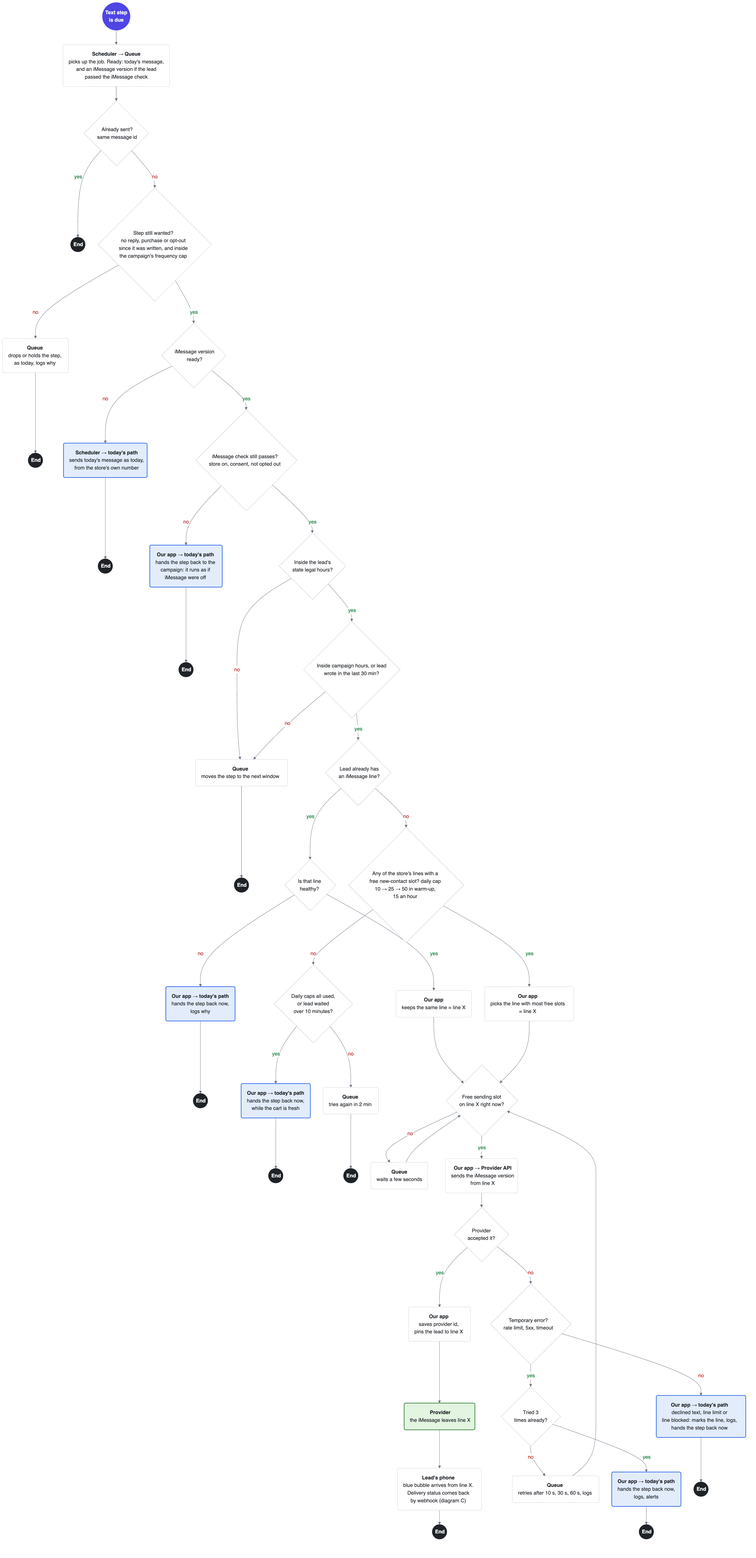
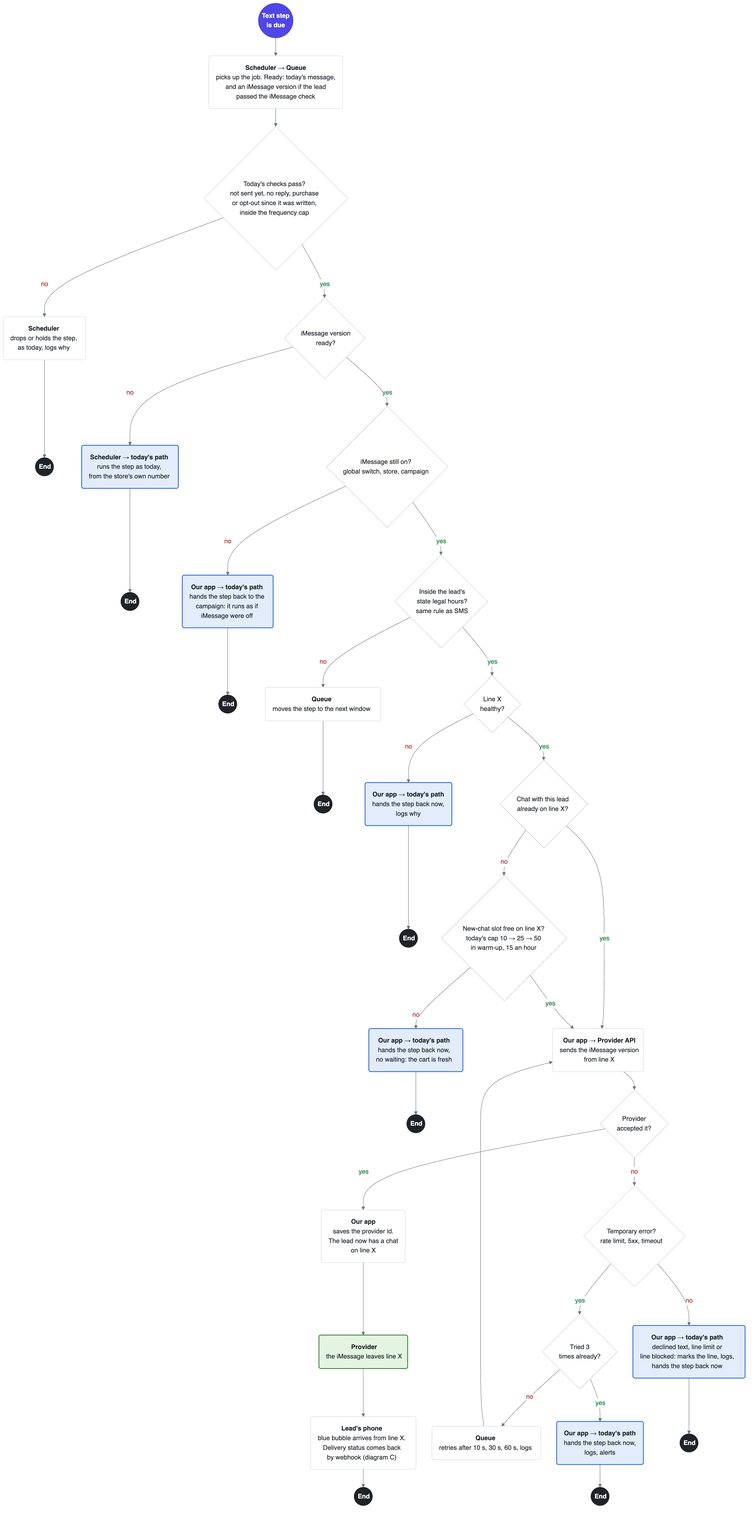
Diagram B: one line per store, reuse today's checks
- Drop the campaign-hours diamond: the scheduler already fires steps
  inside sending hours. Keep only state legal hours.
- Merge "already sent" and "still wanted" into today's checks; the
  iMessage diamond becomes the on-switch (global, store, campaign).
- One iMessage line per store in v1: no line choice, no pinning, no
  wait loops. No free slot hands the step back at once.
- Define the iMessage step: it falls back to the channel the campaign
  sets, and the AI writes that message too.
- README and appendix follow: pilot group sized to the line, line
  count and pilot cost.

diff --git a/appendix.md b/appendix.md
@@ -16,7 +16,7 @@ Back to the plan: [README.md](README.md) · [Diagrams](diagrams.md)
 | Conflict with us | None found | Sells its own iMessage cart recovery to Shopify brands | None found | None found |
 
 **Pick: Blooio**, from step 0 through the pilot, so the line warmed in step 0 carries into the pilot.
-- **Why:** public prices ($195 a line at 6+, no setup fees), live in days, and hard limits with an error code for each rule, so the provider catches our own mistakes. It falls back to SMS only through our own Twilio, so we leave that off and fall back through our own channels.
+- **Why:** public prices ($289 a line, no setup fees), live in days, and hard limits with an error code for each rule, so the provider catches our own mistakes. It falls back to SMS only through our own Twilio, so we leave that off and fall back through our own channels.
 - **Conditions:** a data agreement (DPA) before any shopper data flows, and only the data a message needs: first name, phone number, cart item. Its SOC 2 is "in progress" by its trust page. That matters only if our customers' security reviews ask for it. Then we move to Linq; our provider interface keeps that to about a week.
 - **Plan B: Linq.** It claims SOC 2 Type II, has a 99.95% uptime contract and automatic failover, but no public price.
 - **Not Sendblue: it competes with us.** It sells its own iMessage cart recovery to Shopify and WooCommerce stores ([Sendblue Recover](https://recover.sendblue.com/)), which is our market. As our provider it would see our customers' shoppers, messages and volumes. A no-data-use clause helps, but it can't be checked. It also had a data breach in July 2026. **Not Photon:** its pricing page sells cold outreach while its own guide says not to do it.
@@ -71,7 +71,7 @@ The plan lists the main ones. The full list:
 | **One customer's content** | Adult, drug or scam content can get our *whole* provider account closed, with no refund. | Admins check what the brand sells before turning it on (list below). Every AI message passes a content check. Watch opt-outs and "who is this" replies per customer. Sub-account and kill switch per customer. |
 | **Apple ends the channel** | Apple blocks the providers' method for everyone, overnight. | Leads fall back to the next channel automatically. We lose the blue bubble, not the leads. See section I. |
 | **Provider down** | Every send fails and retries 3 times, so carts wait. Replies sent while webhooks are down are lost. | If most sends fail for 5 minutes, a circuit breaker turns iMessage off for everyone and steps go on the next channel. It turns back on after a test send works. The catch-up job collects missed replies. |
-| **Not enough lines** | Carts go cold within an hour, and 50 a day fills fast. | If every line's daily cap is used, today's message goes at once. If only the hourly cap is full, it waits at most 10 minutes. Size lines with the formula in section F. |
+| **Not enough lines** | Carts go cold within an hour, and 50 a day fills fast. | One line per store in v1. If its daily or hourly cap is full, today's message goes at once, with no waiting. The pilot sizes the iMessage group to fit the line (section F). |
 | **Failed iMessage** | A failed message waits while the cart goes cold, or a resend reaches the lead twice. | The AI writes today's message as usual, plus an iMessage version. If we know the iMessage didn't arrive (refused after 10 s, 30 s and 60 s retries, failed, not on iMessage), today's message goes at once, the campaign's way, with no AI call. If we don't know (no receipt in 15 minutes), we don't resend: the lead is marked, and the next steps run as today. Live chat answers go first in the queue, before normal steps. |
 | **Lead not on iMessage** | Android (about 4 in 10 US phones), iMessage turned off, numbers outside the US, numbers that moved to Android but are still registered with Apple. | Look the number up before the first send and cache it for 30 days. "Not on iMessage" → today's message at once. No receipt within 15 minutes → no resend; the cache is cleared and the next steps run as today. If the lookup itself fails, the lead stays on today's path. v1 covers US/CA only. See section C. |
 | **Cost** | Lines are a fixed monthly cost. Long chats also cost more in AI calls. | The pilot splits iPhone leads 50/50, with and without iMessage. See section F. |
@@ -86,7 +86,7 @@ The plan lists the main ones. The full list:
 - Checked every 15 min: the provider's `line_blocked` event, blocked or declined errors, delivery rate over the last 100 sends, failures in a row, replies against sends, opt-out rate, days with no sends.
 - **Yellow:** delivery under 90%, or opt-outs above 2%. The daily new-chat cap halves, and Slack gets an alert.
 - **Red:** the provider says blocked, 5 failures in a row, or delivery under 70%. No new leads on the line, its chats move to the next channel, and Slack and the customer are told. The ops on-call replaces the line within one working day.
-- A replacement line starts its warm-up again, so the store has less iMessage capacity for 2–3 weeks. More of its leads go on the next channel meanwhile.
+- A replacement line starts its warm-up again, so with one line per store, the store is back to 10 new chats a day for 2–3 weeks. More of its leads go the campaign's way meanwhile.
 - A weekly Slack summary per line catches slow decline.
 
 ## C. Android
@@ -129,13 +129,13 @@ About 4 in 10 US phones in use are Android (StatCounter, mid-2026: iOS 58–61%,
 
 ## F. Sizing and cost
 
-- **Lines needed per store** = eligible leads a day ÷ 40. The cap is 50, and the rest is headroom for spreading sends out and for retries.
-- **With Blooio's reply rule:** if a line's new chats get under 40% written replies, Blooio slows it to about 10 new chats a day. Then the formula is ÷ 10, and a line costs about 4× more per lead. The pilot shows which case applies; step 0 gives a first hint.
-- **Example:** a store with 300 carts a day with consent and a US/CA number. If 55–70% are on iMessage, that is 165–210 leads a day, so **5–6 lines**. In the pilot only half of them get iMessage, so about 3 lines.
+- **v1: one line per store**, like its one SMS number. A warm line takes about 40 new chats a day: the cap is 50, and the rest is headroom for spreading sends out and for retries. More lines per store wait until pilot data shows they pay off, because they need line choice and pinning each lead to one line.
+- **With Blooio's reply rule:** if a line's new chats get under 40% written replies, Blooio slows it to about 10 new chats a day, and a line costs about 4× more per lead. The pilot shows which case applies; step 0 gives a first hint.
+- **Example:** a store with 300 carts a day with consent and a US/CA number. If 55–70% are on iMessage, that is 165–210 leads a day. Its one line takes about 40 of them; the rest are the pilot's comparison group. At full scale it would need 5–6 lines.
 - During warm-up a line takes only 10, then 25, new chats a day, so the pilot's first weeks run at lower volume. The step 0 line starts the pilot already warm.
 - **Cost per line:** about $195–$290 a month (Blooio list price, Linq reported at about $250, Sendblue on request). At about 1,200 new chats a line a month, that is $0.15–$0.25 a lead, against about $0.01 for SMS.
 - **Break-even:** $200 ÷ (1,200 leads × $80 average order) ≈ 0.2 percentage points, or **2 more carts recovered per 1,000 leads**. The $80 is an assumption. That counts all the store's recovered revenue. If Outcraft pays for the line and keeps only its share (say 15%), it needs about **14–17 more carts per 1,000 leads** ($200–$250 a line), about 1.5 points. If the store pays for the line, it needs about 2.5 per 1,000 counting revenue, or about 5 counting profit at a 50% margin. The go bar of 2 points (20 per 1,000) covers every case.
-- **Pilot cost:** 6–10 lines for about 2 months, roughly $2,500–$6,000. We pay it, so stores can join easily.
+- **Pilot cost:** 2–3 lines, one per store, for about 2 months: roughly $1,200–$1,800 at $289 a line. We pay it, so stores can join easily.
 - **Other costs:** longer chats mean more AI calls, ops time for line swaps, and support when a line is blocked.
 
 ## G. Pilot and go/no-go
@@ -150,12 +150,12 @@ Two-sided test, 5% significance, 80% power. The baselines without iMessage (6% r
 | Recovery 10% → 12% | 7,682 | 77 | 26 |
 | Recovery 10% → 11% | 29,502 | 296 | 99 |
 
-- **What we compare:** the half with iMessage against the half without it, which gets the campaign as today, usually SMS. So the test answers the product question: does adding iMessage recover more carts?
+- **What we compare:** the iMessage group against iPhone leads without it, who get the campaign as today, usually SMS. So the test answers the product question: does adding iMessage recover more carts?
 - **Go:** reply rate at least 2×, and recovery at least 2 points higher.
 - **Guardrails:** opt-outs no higher than without iMessage, and under 1 blocked line per 10 line-months.
 - **Revenue after line costs** is tracked, but proving a 1-point lift needs about 30,000 leads, so it shows direction only.
-- **Both halves are iPhone leads.** Leads are split only after the lookup confirms iMessage. iPhone and Android shoppers differ in age and income, so comparing with all leads would flatter iMessage.
-- **If lines are the bottleneck,** the group without iMessage can be up to 3× the iMessage group. For 10% → 12%, that cuts the iMessage leads needed from about 3,840 to about 2,560.
+- **Both groups are iPhone leads.** Leads are split only after the lookup confirms iMessage. iPhone and Android shoppers differ in age and income, so comparing with all leads would flatter iMessage.
+- **One line per store sets the split.** The iMessage group is what the line takes (about 40 a day per store), and the group without iMessage is bigger. At 3×, for 10% → 12%, that cuts the iMessage leads needed from about 3,840 to about 2,560: about 4 weeks with 3 stores, longer with 2.
 - Warm-up limits volume early. If the pilot stores have fewer than about 300 eligible leads a day, we run longer or add a store.
 
 ## H. Rollout
@@ -164,30 +164,30 @@ Two-sided test, 5% significance, 80% power. The baselines without iMessage (6% r
 |---|---|---|
 | 1–3 | **Step 0:** is it worth it? | Are there enough eligible shoppers, and do they reply? |
 | 4–7 | **Build:** replies (diagram C), then sending (diagram B) | — |
-| 8–11 | **Pilot:** half of the iPhone shoppers get iMessage | Does adding iMessage recover more carts? |
+| 8–11 | **Pilot:** a random group of iPhone shoppers gets iMessage | Does adding iMessage recover more carts? |
 | 12 | **Decision** | Go or no-go |
 
 **Step 0: is it worth it? (weeks 1–3, about $300, no build)**
 - **Count the eligible shoppers** (a few days): carts with consent and a US/CA number, times the iPhone share from a lookup on about 500 numbers.
-- **One-line test:** one store, one Blooio line, which goes on into the pilot. A throwaway script (about a day of work) takes the store's abandoned-cart event, checks consent, a US/CA number and 9:00–17:00 local time, asks Blooio whether the number is on iMessage, and sends one fixed message to half the iPhone carts. The other half get the campaign as today. Replies go to a Slack channel, and a support person answers in Blooio's dashboard with AI drafts, about 30 minutes a day. The script is deleted after step 0.
+- **One-line test:** one store, one Blooio line, which goes on into the pilot. A throwaway script (about a day of work) takes the store's abandoned-cart event, checks consent, a US/CA number and 9:00–17:00 local time, asks Blooio whether the number is on iMessage, and sends one fixed message to a random group of iPhone carts, up to the line's daily cap (10 a day at first). The rest get the campaign as today. Replies go to a Slack channel, and a support person answers in Blooio's dashboard with AI drafts, about 30 minutes a day. The script is deleted after step 0.
 - **Before the first message:** Blooio goes on Outcraft's sub-processor list, 10 days before any shopper data reaches it (Outcraft's DPA, clause 7.4.3).
 - **At the same time:** provider contract, data agreement (DPA), legal check on state rules.
-- **Go on if:** a store has at least ~30 eligible shoppers a day, replies are at least 2× the other half, and the line isn't flagged.
+- **Go on if:** a store has at least ~30 eligible shoppers a day, replies are at least 2× the rest, and the line isn't flagged.
 - **If cold messages get the line flagged:** one more try on a new line, with a slower ramp, and iMessage only right after a missed call, when the shopper has just heard from the brand. Flagged again → stop.
 - **Otherwise stop**, or look at RCS.
 
 **Build (weeks 4–7)**
 - **Replies first (diagram C), weeks 4–5:** provider interface, webhooks with the catch-up job, STOP handling, chat rules (typing dots, 15 s wait, a cap of 30), content check.
-- **Then sending (diagram B), weeks 6–7:** the iMessage check before writing, today's message plus an iMessage version, per-line limits, no-link rules, health alerts, the random split.
+- **Then sending (diagram B), weeks 6–7:** the iMessage check before writing, today's message plus an iMessage version, iMessage steps with their fallback, per-line limits, no-link rules, health alerts, the random split.
 
 **Pilot (weeks 8–11)**
-- 2–3 US stores, switched on by our admins. We pay for the lines.
+- 2–3 US stores, one line each, switched on by our admins. We pay for the lines.
 - Cart messages by iMessage. The step 0 line is already warm. New lines ramp 10 → 25 → 50 a day.
-- A random split among iPhone shoppers only: half get iMessage, half the campaign without it. If lines are the bottleneck, the half without can be up to 3× bigger.
+- A random split among iPhone shoppers only, sized to each store's line: about 40 a day get iMessage, the rest the campaign without it (section G).
 - **We measure:** replies, recovered carts, opt-outs, blocked lines, AI cost per chat, lookup accuracy.
 
 **Decision (week 12)**
-- **Go if**, against the half without iMessage: replies at least 2×, recovery at least 2 points higher, opt-outs no higher, and under 1 blocked line per 10 line-months (section G).
+- **Go if**, against iPhone shoppers without iMessage: replies at least 2×, recovery at least 2 points higher, opt-outs no higher, and under 1 blocked line per 10 line-months (section G).
 - **Go →** a paid add-on per line, more stores, later self-serve.
 - **No-go →** stop, or look at RCS.
 - **Before growing beyond the pilot:** if our customers' security reviews ask for SOC 2 and Blooio still has none, we move to Linq.
@@ -195,7 +195,7 @@ Two-sided test, 5% significance, 80% power. The baselines without iMessage (6% r
 **Other notes:**
 - **The step 0 line is warm**, so the pilot uses it from day one.
 - **If Outcraft already runs iMessage:** skip step 0 and use that data.
-- **Effort:** about 4 weeks of build for one engineer, 3–5 depending on how channel-neutral our code is. Lines for the pilot: $2,500–$6,000.
+- **Effort:** about 4 weeks of build for one engineer, 3–5 depending on how channel-neutral our code is. Lines for the pilot: 2–3, about $1,200–$1,800.
 
 ## I. Platform risk
 
@@ -208,6 +208,7 @@ Two-sided test, 5% significance, 80% power. The baselines without iMessage (6% r
 
 **Waits in v1, and why:**
 - **Self-serve and billing:** needs pilot numbers first.
+- **More than one line per store:** needs line choice and pinning each lead to one line. One line fits the pilot.
 - **Moving a chat to a new line:** the next channel covers it in v1.
 - **Sending pictures:** not needed to win a reply.
 - **Group chats:** carts are one-to-one.

diff --git a/diagrams.md b/diagrams.md
@@ -9,10 +9,11 @@ Back to the plan: [README.md](README.md)
 **How to read:**
 - 🟣 start (what triggers it) · ⚫ end, one per branch · ◇ a question, with yes and no arrows · ▢ an action, **bold** = who does it · 🟩 an iMessage leaves line X · 🟦 the step goes back to the campaign: it leaves from the store's own number, as today
 - **Who does it:** our app, the scheduler, the queue, the AI, the provider, or the lead's phone.
-- **Line X** is the store's iMessage line this lead is pinned to. Every iMessage to the lead comes from it.
-- **Which steps:** iMessage is a fifth channel. When it's on, a lead on iMessage gets every text step, iMessage or SMS, from line X. One number per lead.
-- **Today's message** (blue boxes): the AI writes the step as it does today, plus an iMessage version. When iMessage can't be used, the step goes back to the campaign and runs as if iMessage were off, with the campaign's own channel, settings, frequency caps and checks. Often that's SMS from the store's number, but it can be a call. The campaign decides, not B.
-- **One check, two places:** the iMessage check runs before writing and again at send time. If it, or the lookup, fails, the lead stays on today's path.
+- **Line X** is the store's iMessage line: one per store in v1, like its one SMS number. Every iMessage to the store's leads comes from it.
+- **Which steps:** iMessage is a fifth channel. A text step is an SMS step or an iMessage step. A campaign can add iMessage steps, each with a fallback the campaign sets (SMS or a call). For a lead on iMessage, SMS steps also go from line X. One number per lead: after a hand-back, the lead's next steps run as today.
+- **Today's message** (blue boxes): what the campaign sends without iMessage. For an SMS step, the AI writes it as today. For an iMessage step, it's the message for its fallback (nothing to write for a call). The AI also writes an iMessage version. When iMessage can't be used, the step goes back to the campaign and runs as if iMessage were off, with the campaign's own channel, settings, frequency caps and checks. Often that's SMS from the store's number, but it can be a call. The campaign decides, not B.
+- **What B leaves to today's system:** sending hours (the scheduler fires the step inside them), opt-out and frequency caps (today's checks). B adds only state legal hours, the iMessage on-switch and line X's limits.
+- **Checks in two places:** the full iMessage check runs before writing. At send time, today's checks and the on-switch run again, so nothing stale goes out. If the check, or the lookup, fails, the lead stays on today's path.
 - **When iMessage fails:** if we know it didn't arrive (refused, failed, not on iMessage), today's message goes at once, the campaign's way. If we don't know (no receipt in 15 min), we don't resend, so the lead never gets both. The lead is marked, and the next steps run as today.
 - **The call after a text:** their default sequence calls about 3 minutes after a text step. That stays. If the lead replies first, the reply cancels scheduled steps, including that call (diagram C).
 - **Logging:** every refusal, retry, fallback and drop is logged with its reason and the provider's error key.
@@ -22,49 +23,39 @@ Back to the plan: [README.md](README.md)
 ## B. Sending a message: a step is due, up to the message leaving a number (or not)
 
 **Before B, when the AI writes the step** (not drawn, it's one check):
-1. **iMessage check:** iMessage on for the store and the campaign, a US/CA number, texting consent, not opted out, passes Do Not Call, not in FL, MD or OK during the pilot, the lookup says iMessage (cached 30 days), the iMessage group of the pilot, and fewer than 2 unanswered iMessages. Any error, timeout or unknown means no.
-2. **The AI writes today's message** as usual. If the check passed, it also writes an **iMessage version**: a short question with no link until the lead has written to our line, then the full message.
+1. **iMessage check:** iMessage on for the store and the campaign, a US/CA number, texting consent, not opted out, passes Do Not Call, not in FL, MD or OK during the pilot, the lookup says iMessage (cached 30 days), the iMessage group of the pilot, not handed back to today's path earlier in this campaign, and fewer than 2 unanswered iMessages. Any error, timeout or unknown means no.
+2. **The AI writes today's message** as usual (for an iMessage step: the message for its fallback, none for a call). If the check passed, it also writes an **iMessage version**: a short question with no link until the lead has written to our line, then the full message.
 3. **Both pass our content check,** or the AI rewrites them once. Still failing: nothing is sent, and the team is alerted.
 
 ```mermaid
 %%{init: {"theme": "base", "themeVariables": {"fontFamily": "Helvetica, Arial, sans-serif", "primaryColor": "#ffffff", "primaryBorderColor": "#d0d4db", "primaryTextColor": "#1f2328", "lineColor": "#6b7280", "edgeLabelBackground": "#ffffff"}, "themeCSS": "foreignObject { overflow: visible; } .nodeLabel { white-space: nowrap; }", "flowchart": {"curve": "basis", "nodeSpacing": 40, "rankSpacing": 45, "padding": 18}}}%%
 flowchart TD
     S(("<b>Text step<br/>is due</b>")) --> A1("<b>Scheduler → Queue</b><br/>picks up the job. Ready: today's message,<br/>and an iMessage version if the lead<br/>passed the iMessage check")
-    A1 --> Q0{"Already sent?<br/>same message id"}
-    Q0 -- yes --> E0(("<b>End</b>"))
-    Q0 -- no --> QS{"Step still wanted?<br/>no reply, purchase or opt-out<br/>since it was written, and inside<br/>the campaign's frequency cap"}
-    QS -- no --> X3("<b>Queue</b><br/>drops or holds the step,<br/>as today, logs why") --> E14(("<b>End</b>"))
-    QS -- yes --> QV{"iMessage version<br/>ready?"}
-    QV -- no --> SMS0("<b>Scheduler → today's path</b><br/>sends today's message as today,<br/>from the store's own number"):::sms --> E1(("<b>End</b>"))
-    QV -- yes --> QI{"iMessage check still passes?<br/>store on, consent, not opted out"}
+    A1 --> Q0{"Today's checks pass?<br/>not sent yet, no reply, purchase<br/>or opt-out since it was written,<br/>inside the frequency cap"}
+    Q0 -- no --> X3("<b>Scheduler</b><br/>drops or holds the step,<br/>as today, logs why") --> E0(("<b>End</b>"))
+    Q0 -- yes --> QV{"iMessage version<br/>ready?"}
+    QV -- no --> SMS0("<b>Scheduler → today's path</b><br/>runs the step as today,<br/>from the store's own number"):::sms --> E1(("<b>End</b>"))
+    QV -- yes --> QI{"iMessage still on?<br/>global switch, store, campaign"}
     QI -- no --> SMS1("<b>Our app → today's path</b><br/>hands the step back to the<br/>campaign: it runs as if<br/>iMessage were off"):::sms --> E2(("<b>End</b>"))
-    QI -- yes --> QL{"Inside the lead's<br/>state legal hours?"}
-    QL -- no --> R1("<b>Queue</b><br/>moves the step to the next window") --> E4(("<b>End</b>"))
-    QL -- yes --> Q5{"Inside campaign hours, or lead<br/>wrote in the last 30 min?"}
-    Q5 -- no --> R1
-    Q5 -- yes --> Q6{"Lead already has<br/>an iMessage line?"}
-    Q6 -- yes --> Q7{"Is that line<br/>healthy?"}
-    Q7 -- no --> SMS2("<b>Our app → today's path</b><br/>hands the step back now,<br/>logs why"):::sms --> E5(("<b>End</b>"))
-    Q7 -- yes --> X1("<b>Our app</b><br/>keeps the same line = line X") --> Q12
-    Q6 -- no --> Q8{"Any of the store's lines with a<br/>free new-contact slot? daily cap<br/>10 → 25 → 50 in warm-up,<br/>15 an hour"}
-    Q8 -- yes --> X2("<b>Our app</b><br/>picks the line with most free slots<br/>= line X") --> Q12
-    Q8 -- no --> Q9{"Daily caps all used,<br/>or lead waited<br/>over 10 minutes?"}
-    Q9 -- yes --> SMS3("<b>Our app → today's path</b><br/>hands the step back now,<br/>while the cart is fresh"):::sms --> E6(("<b>End</b>"))
-    Q9 -- no --> R2("<b>Queue</b><br/>tries again in 2 min") --> E7(("<b>End</b>"))
-
-    Q12{"Free sending slot<br/>on line X right now?"}
-    Q12 -- no --> R3("<b>Queue</b><br/>waits a few seconds") --> Q12
-    Q12 -- yes --> SEND("<b>Our app → Provider API</b><br/>sends the iMessage version<br/>from line X")
+    QI -- yes --> QL{"Inside the lead's<br/>state legal hours?<br/>same rule as SMS"}
+    QL -- no --> R1("<b>Queue</b><br/>moves the step to the next window") --> E3(("<b>End</b>"))
+    QL -- yes --> Q7{"Line X<br/>healthy?"}
+    Q7 -- no --> SMS2("<b>Our app → today's path</b><br/>hands the step back now,<br/>logs why"):::sms --> E4(("<b>End</b>"))
+    Q7 -- yes --> Q6{"Chat with this lead<br/>already on line X?"}
+    Q6 -- yes --> SEND("<b>Our app → Provider API</b><br/>sends the iMessage version<br/>from line X")
+    Q6 -- no --> Q8{"New-chat slot free on line X?<br/>today's cap 10 → 25 → 50<br/>in warm-up, 15 an hour"}
+    Q8 -- yes --> SEND
+    Q8 -- no --> SMS3("<b>Our app → today's path</b><br/>hands the step back now,<br/>no waiting: the cart is fresh"):::sms --> E5(("<b>End</b>"))
     SEND --> Q13{"Provider<br/>accepted it?"}
-    Q13 -- yes --> OK2("<b>Our app</b><br/>saves provider id,<br/>pins the lead to line X")
+    Q13 -- yes --> OK2("<b>Our app</b><br/>saves the provider id.<br/>The lead now has a chat<br/>on line X")
     OK2 --> OUT("<b>Provider</b><br/>the iMessage leaves line X"):::out
     OUT --> PH("<b>Lead's phone</b><br/>blue bubble arrives from line X.<br/>Delivery status comes back<br/>by webhook (diagram C)")
-    PH --> E9(("<b>End</b>"))
+    PH --> E6(("<b>End</b>"))
     Q13 -- no --> Q14{"Temporary error?<br/>rate limit, 5xx, timeout"}
     Q14 -- yes --> Q15{"Tried 3<br/>times already?"}
-    Q15 -- no --> R4("<b>Queue</b><br/>retries after 10 s, 30 s, 60 s, logs") --> Q12
-    Q15 -- yes --> SMS4("<b>Our app → today's path</b><br/>hands the step back now,<br/>logs, alerts"):::sms --> E10(("<b>End</b>"))
-    Q14 -- no --> SMS5("<b>Our app → today's path</b><br/>declined text, line limit or<br/>line blocked: marks the line, logs,<br/>hands the step back now"):::sms --> E11(("<b>End</b>"))
+    Q15 -- no --> R4("<b>Queue</b><br/>retries after 10 s, 30 s, 60 s, logs") --> SEND
+    Q15 -- yes --> SMS4("<b>Our app → today's path</b><br/>hands the step back now,<br/>logs, alerts"):::sms --> E7(("<b>End</b>"))
+    Q14 -- no --> SMS5("<b>Our app → today's path</b><br/>declined text, line limit or<br/>line blocked: marks the line, logs,<br/>hands the step back now"):::sms --> E8(("<b>End</b>"))
 
     classDef start fill:#4f46e5,stroke:#4f46e5,color:#ffffff
     classDef finish fill:#1f2328,stroke:#1f2328,color:#ffffff
@@ -73,11 +64,11 @@ flowchart TD
     classDef out fill:#e3f5e1,stroke:#2e7d32,stroke-width:2px,color:#1f2328
     classDef sms fill:#e2ecfb,stroke:#2563eb,stroke-width:2px,color:#1f2328
     class S start
-    class E0,E1,E2,E4,E5,E6,E7,E9,E10,E11,E14 finish
-    class Q0,QS,QV,QI,QL,Q5,Q6,Q7,Q8,Q9,Q12,Q13,Q14,Q15 decision
-    class A1,X3,R1,X1,X2,R2,R3,SEND,OK2,PH,R4 action
-    linkStyle 2,6,9,12,15,17,18,21,24,27,33,35,40,43 color:#15803d,stroke:#6b7280
-    linkStyle 3,4,7,10,13,16,19,23,26,29,31,39,41,45 color:#b91c1c,stroke:#6b7280
+    class E0,E1,E2,E3,E4,E5,E6,E7,E8 finish
+    class Q0,QV,QI,QL,Q7,Q6,Q8,Q13,Q14,Q15 decision
+    class A1,X3,R1,SEND,OK2,PH,R4 action
+    linkStyle 4,7,10,13,16,17,19,23,28,31 color:#15803d,stroke:#6b7280
+    linkStyle 2,5,8,11,14,18,20,27,29,33 color:#b91c1c,stroke:#6b7280
 ```
 
 🟣 start (what triggers it) · ⚫ end, one per branch · ◇ a question, with yes and no arrows · ▢ an action, **bold** = who does it · 🟩 an iMessage leaves line X · 🟦 the step goes back to the campaign: it leaves from the store's own number, as today
@@ -117,7 +108,7 @@ flowchart TD
     Q7 -- yes --> Q8{"Asks to stop?<br/>STOP, unsubscribe,<br/>'stop texting me'..."}
     Q8 -- yes --> R2("<b>Our app</b><br/>opts the lead out on all<br/>of this store's channels,<br/>cancels steps") --> OUT2("<b>Provider</b><br/>one confirmation leaves line X"):::out
     OUT2 --> E8(("<b>End</b>"))
-    Q8 -- no --> R3("<b>Our app</b><br/>pins the lead to line X,<br/>cancels scheduled steps,<br/>marks lead 'in chat',<br/>no-link rule lifts")
+    Q8 -- no --> R3("<b>Our app</b><br/>cancels scheduled steps,<br/>marks lead 'in chat',<br/>no-link rule lifts")
     R3 --> Q9{"A person is handling<br/>this lead, or 30 AI<br/>replies reached?"}
     Q9 -- yes --> R4("<b>Our app</b><br/>notifies the person,<br/>AI stays quiet") --> E9(("<b>End</b>"))
     Q9 -- no --> TY("<b>Provider</b><br/>shows typing dots<br/>on the lead's phone") --> R5("<b>Queue</b><br/>waits 15 seconds") --> Q10{"More messages<br/>came in meanwhile?"}

diff --git a/README.md b/README.md
@@ -5,7 +5,7 @@ Tadas Vinckas · [Diagrams](diagrams.md)
 **In short:** iMessage becomes a fifth channel, for iPhone leads. The rest stay on the other channels.
 
 - **Step 0:** count reachable shoppers, test one line. **Then build:** 4 weeks, one engineer.
-- **Pilot**, 2–3 US stores: half the iPhone shoppers get iMessage, half don't. Go or no-go in week 12.
+- **Pilot**, 2–3 US stores, a line each: random iPhone shoppers get iMessage. Decision in week 12.
 
 ## 1. Provider: which one, and why
 
@@ -21,7 +21,7 @@ Tadas Vinckas · [Diagrams](diagrams.md)
 | Risk | What breaks | What we do |
 |---|---|---|
 | **Apple blocks a line** | Junk reports or bursts block the number. Its chats drop. | New chats ramp 10 → 25 → 50 a day. Consent only, no nights. |
-| **Not enough lines** | A line starts about 50 new chats a day. Carts go cold in an hour. | Lines full → today's message at once. About 1 line per 40 leads a day. |
+| **Not enough lines** | A line starts about 50 new chats a day. Carts go cold in an hour. | One line per store in v1. Full → today's message at once, no waiting. |
 | **Failed iMessage** | A failed message waits while the cart goes cold. | Today's message goes at once. No receipt → no resend; next steps run as today. |
 | **No link before a reply** | iPhones disable links from strangers. | A short question first, the link after a reply. |
 | **Lead not on iMessage** | About 4 in 10 US phones are Android. | We look it up first. Not on iMessage → today's path. |
@@ -36,7 +36,7 @@ Tadas Vinckas · [Diagrams](diagrams.md)
 |---|---|---|---|
 | **Sending hours** | Every step waits for sending hours. | Reply at once to a lead who just wrote, within the law. | Live chat: a next-morning answer loses the lead. |
 | **Reply limit** | After 5 replies: a person. | Keep the chat going, up to 30 AI replies, then a person. | Going silent mid-chat loses the lead. |
-| **Message writing** | The AI writes, then the scheduler sends. | If the lead can get iMessage, the AI also writes an iMessage version. | A free line is only known at send time. With both ready, no AI call when sending. |
+| **Message writing** | The AI writes, then the scheduler sends. | For a lead on iMessage, the AI writes two versions: iMessage and the fallback. | A free line is only known at send time. With both ready, no AI call when sending. |
 | **Sender number** | Each store's own SMS number. | Every text step from one line, until a fallback. | Same app as SMS. Two numbers look like a scam. |
 | **Follow-ups and calls** | Steps and calls run on schedule. | A reply or purchase cancels them. No calls mid-chat. | No "still thinking?" after "yes, buying". |
 
@@ -50,7 +50,7 @@ Tadas Vinckas · [Diagrams](diagrams.md)
 ## 4. Who turns it on: our admins, every store, or a plan
 
 - **Today:** each campaign switches its channels on: calls, SMS, email, WhatsApp.
-- **Suggestion:** only our admins in v1, and we pay for pilot lines. Later, a paid add-on per line.
+- **Suggestion:** our admins only in v1, one line per store, paid by us. Later, a paid add-on per line.
 - **Why:** lines cost money and need warm-up, and one bad store can get us all banned.
 
 ## 5. Which leads get it, and what happens to the rest
@@ -58,18 +58,18 @@ Tadas Vinckas · [Diagrams](diagrams.md)
 - **Today:** a lead is reached on every channel their campaign has switched on.
 - **Suggestion:** only leads with a US/CA number, consent and iMessage (we check first).
 - **One number per lead:** in the campaign, iMessage is a fifth channel. On the phone, it shares the Messages app with SMS, so a lead hears from one number at a time.
-- **The rest** (Android, no consent, no free line): today's path. We log why.
+- **The rest** (Android, no consent, no free slot): today's path. We log why.
 - **Why:** iMessage works only on iPhones and costs 20× more. The pilot compares iPhones only.
 
 ## 6. First version and time
 
 - **Step 0, before building (2–3 weeks, ~$300):** a cheap test of the two biggest unknowns.
   - **Count:** carts a day with consent and US/CA number, and iPhone share (lookup on 500).
-  - **Test one line, one store:** a throwaway script sends a fixed iMessage to half the iPhone carts; the other half get SMS. Replies go to Slack, and support answers (about 30 min a day).
-  - **Result:** 2× replies, no flag → build. Flagged → retry slower, after missed calls. Too few → stop.
+  - **Test one line, one store:** a throwaway script sends a fixed iMessage to random iPhone carts, up to the line's cap; the rest get SMS. Support answers replies in Slack (30 min a day).
+  - **Result:** 2× replies, no flag → build. Flagged → retry slower, after missed calls. Else stop.
 - **In v1, in build order:** replies (diagram C): webhooks, AI answers and STOP, live before the first send. Then sending (diagram B): iMessage check, two versions, line limits, alerts.
 - **How long:** 4 weeks of building for one engineer, 12 weeks from step 0 to the decision.
-- **Blocks us:** data agreement, vendor notice, consent. **Could slip:** a ban, few replies, SMS-only code.
-- **Where we simplified, what waits:** self-serve and billing (needs pilot data), a dashboard (Slack does it), photos, a second provider, countries beyond US/CA.
-- **Go or no-go**, against the half without iMessage: twice the replies in step 0, then 2 more carts recovered per 100 leads in the pilot (12, not 10).
-- **Questions:** Is iMessage live? Does SMS consent cover it? Do channels share one send path? Does the AI write a step ahead?
+- **Blocks us:** data agreement, vendor notice, consent. **Could slip:** bans, few replies, SMS-only code.
+- **Where we simplified, what waits:** more lines per store, self-serve and billing (needs pilot data), a dashboard (Slack does it), photos, a second provider, countries beyond US/CA.
+- **Go or no-go**, against iPhone shoppers without iMessage: twice the replies in step 0, then 2 more carts recovered per 100 leads in the pilot (12, not 10).
+- **Questions:** Is iMessage live? Does SMS consent cover it? A shared send path? Does the AI write ahead?
